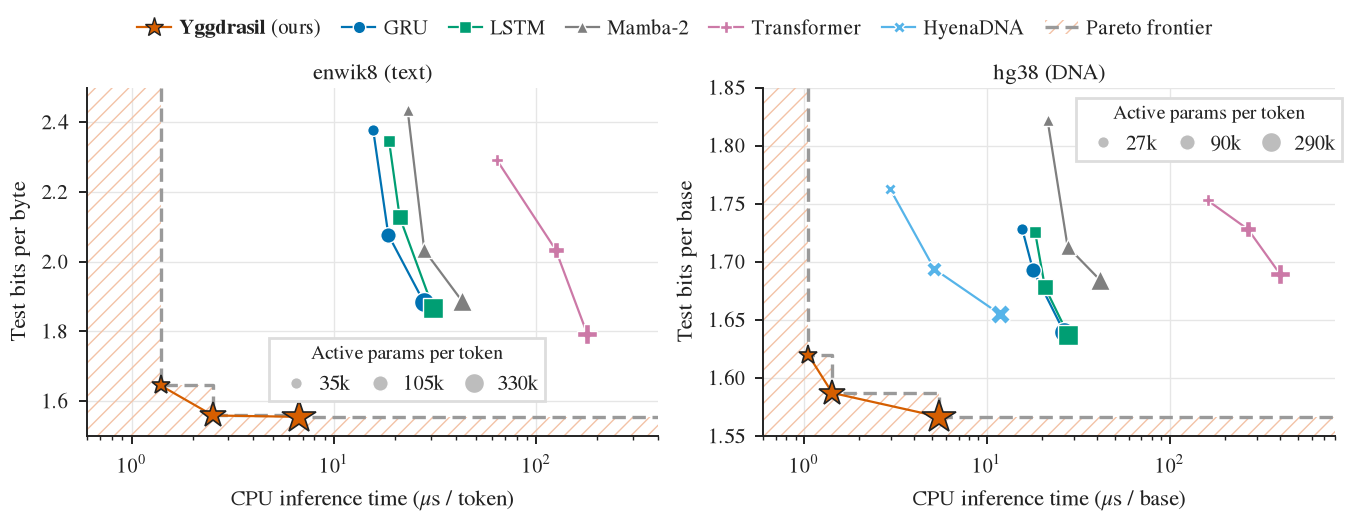
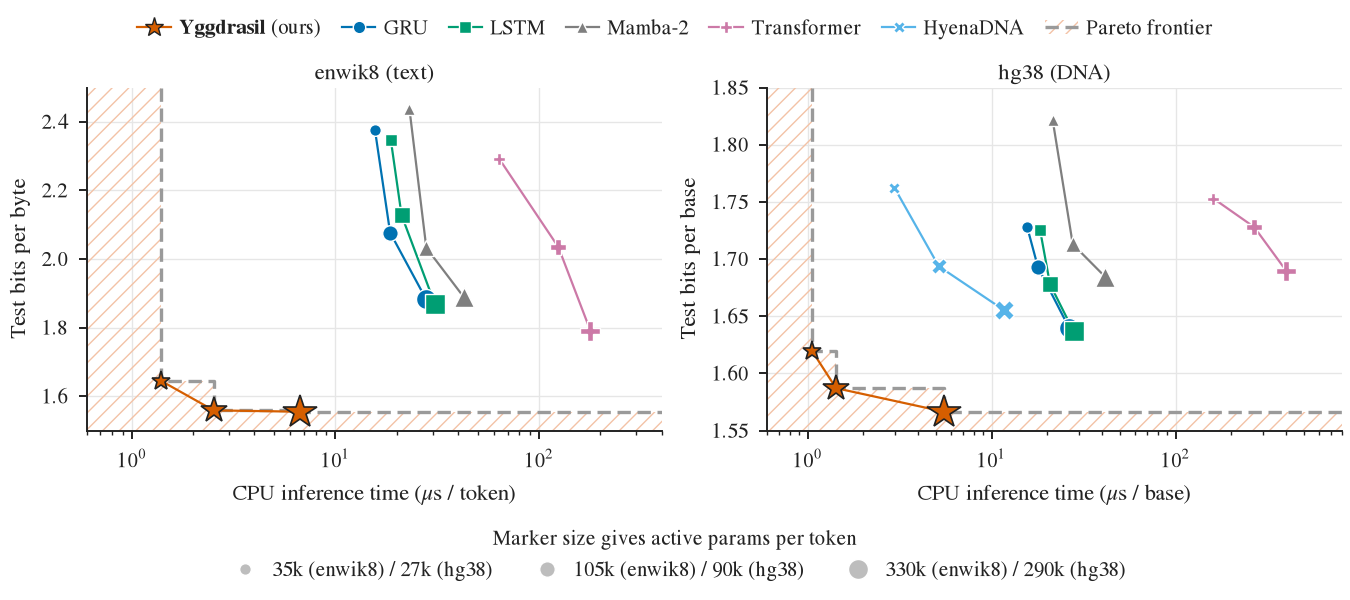
Update README results and figures

diff --git a/README.md b/README.md
@@ -1,18 +1,16 @@
 # Yggdrasil
 
-Sequence models that run token by token on a CPU read every weight at every step. Bigger means slower.
+Sequence models that run token by token on a CPU read every weight at every step, so their time per token grows with their size.
 
-Most of those weights do nothing for any one token.
-
-Yggdrasil stores a bank of transitions per layer and reads **one per token**, picked by a small binary tree. A
-195M-parameter model reads **0.2%** of its weights per token, trains in parallel like a linear RNN, and runs in an int8
+Yggdrasil stores 1,024 transitions per layer and reads **one per token**, selected by a depth-10 binary tree. A
+195M-parameter model reads **0.2%** of its weights per token, trains as a parallel scan, and runs in an int8
 CPU kernel.
 
 - **1.555 bpc on enwik8** vs 1.719 for the best baseline at the same active parameters
-- **1.567 bits/base on hg38** vs 1.637, beating HyenaDNA, Mamba-2 and the Transformer
-- **6.7 µs per token** on one CPU core: **4×** faster than GRU, **27×** faster than a Transformer
-- **178× to 3,782×** faster than dense models of the same size
-- **1.000 on all five state-tracking tasks**, including S5 and A5, where every other parallel model scores 0.000
+- **1.567 bits/base on hg38** vs 1.637 for the best baseline, ahead of HyenaDNA
+- **1.1 µs per base** on one CPU core, **15×** faster than GRU and **152×** faster than a Transformer
+- **178× to 3,782×** faster than dense models with the same stored parameters (5M to 800M)
+- **1.000 on all five state-tracking tasks**, including S5, where every other parallel model scores 0.000
 
 <p align="center"><img src="assets/architecture.png" width="520"></p>
 
